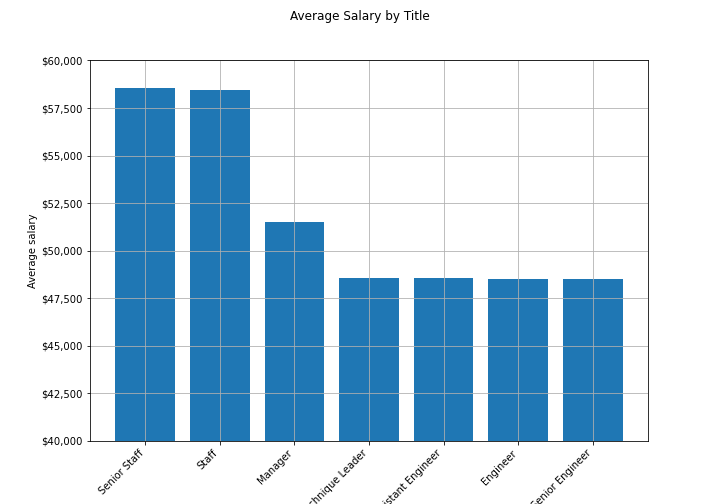
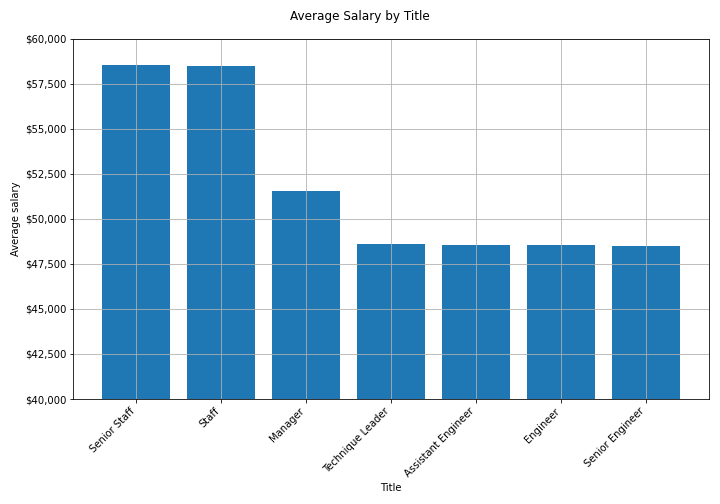
update readme

diff --git a/README.md b/README.md
@@ -1,49 +1,15 @@
 
 # SQL Challenge
 
-Run ['schema.sql'](EmployeeSQL/schema.sql)
-This repository contains 6 CSV files that can be imported into a database after running 
-It is a beautiful spring day, and it is two weeks since you have been hired as a new data engineer at Pewlett Hackard. Your first major task is a research project on employees of the corporation from the 1980s and 1990s. All that remain of the database of employees from that period are six CSV files.
 
-In this assignment, you will design the tables to hold data in the CSVs, import the CSVs into a SQL database, and answer questions about the data. In other words, you will perform:
+## Schema
+[schema.sql](EmployeeSQL/schema.sql) creates tables to hold data about a company's employees from the 6 csv files in [EmployeeSQL/data/](EmployeeSQL/data).
 
-1. Data Engineering
+![Pewlett-Hackard ERD](EmployeeSQL/images/erd.png)
 
-3. Data Analysis
+## Queries
 
-Note: You may hear the term "Data Modeling" in place of "Data Engineering," but they are the same terms. Data Engineering is the more modern wording instead of Data Modeling.
-
-### Before You Begin
-
-1. Create a new repository for this project called `sql-challenge`. **Do not add this homework to an existing repository**.
-
-2. Clone the new repository to your computer.
-
-3. Inside your local git repository, create a directory for the SQL challenge. Use a folder name to correspond to the challenge: **EmployeeSQL**.
-
-4. Add your files to this folder.
-
-5. Push the above changes to GitHub.
-
-## Instructions
-
-#### Data Modeling
-
-Inspect the CSVs and sketch out an ERD of the tables. Feel free to use a tool like [http://www.quickdatabasediagrams.com](http://www.quickdatabasediagrams.com).
-
-#### Data Engineering
-
-* Use the information you have to create a table schema for each of the six CSV files. Remember to specify data types, primary keys, foreign keys, and other constraints.
-
-  * For the primary keys check to see if the column is unique, otherwise create a [composite key](https://en.wikipedia.org/wiki/Compound_key). Which takes to primary keys in order to uniquely identify a row.
-  * Be sure to create tables in the correct order to handle foreign keys.
-
-* Import each CSV file into the corresponding SQL table. **Note** be sure to import the data in the same order that the tables were created and account for the headers when importing to avoid errors.
-
-#### Data Analysis
-
-Once you have a complete database, do the following:
-
+[queries.sql](EmployeeSQL/queries.sql) contains PostgreSQL queries for the following questions:
 1. List the following details of each employee: employee number, last name, first name, sex, and salary.
 
 2. List first name, last name, and hire date for employees who were hired in 1986.
@@ -58,46 +24,18 @@ Once you have a complete database, do the following:
 
 7. List all employees in the Sales and Development departments, including their employee number, last name, first name, and department name.
 
-8. In descending order, list the frequency count of employee last names, i.e., how many employees share each last name.
+8. In descending order, list the frequency count of employee last names, i.e., how many employees share each last name.new PostGres
 
-## Bonus (Optional)
+## Visualizations
 
-As you examine the data, you are overcome with a creeping suspicion that the dataset is fake. You surmise that your boss handed you spurious data in order to test the data engineering skills of a new employee. To confirm your hunch, you decide to take the following steps to generate a visualization of the data, with which you will confront your boss:
+[pewlett-hackard.ipynb](EmployeeSQL/pewlett-hackard.ipynb) contains a script to connect to the Postgres database and import SQL query output into dataframes to create the following visualizations:
 
-1. Import the SQL database into Pandas. (Yes, you could read the CSVs directly in Pandas, but you are, after all, trying to prove your technical mettle.) This step may require some research. Feel free to use the code below to get started. Be sure to make any necessary modifications for your username, password, host, port, and database name:
 
-   ```sql
-   from sqlalchemy import create_engine
-   engine = create_engine('postgresql://localhost:5432/<your_db_name>')
-   connection = engine.connect()
-   ```
 
-* Consult [SQLAlchemy documentation](https://docs.sqlalchemy.org/en/latest/core/engines.html#postgresql) for more information.
+**A histogram to visualize the most common salary ranges for employees:**
 
-* If using a password, do not upload your password to your GitHub repository. See [https://www.youtube.com/watch?v=2uaTPmNvH0I](https://www.youtube.com/watch?v=2uaTPmNvH0I) and [https://help.github.com/en/github/using-git/ignoring-files](https://help.github.com/en/github/using-git/ignoring-files) for more information.
+!['histogram of salary ranges'](EmployeeSQL/images/salaries_hist.png)
 
-2. Create a histogram to visualize the most common salary ranges for employees.
+**A bar chart of average salary by title:**
 
-3. Create a bar chart of average salary by title.
-
-## Epilogue
-
-Evidence in hand, you march into your boss's office and present the visualization. With a sly grin, your boss thanks you for your work. On your way out of the office, you hear the words, "Search your ID number." You look down at your badge to see that your employee ID number is 499942.
-
-## Submission
-
-* Create an image file of your ERD.
-
-* Create a `.sql` file of your table schemata.
-
-* Create a `.sql` file of your queries.
-
-* (Optional) Create a Jupyter Notebook of the bonus analysis.
-
-* Create and upload a repository with the above files to GitHub and post a link on BootCamp Spot.
-
-* Ensure your repository has regular commits (i.e. 20+ commits) and a thorough README.md file
-
-### Copyright
-
-Trilogy Education Services © 2019. All Rights Reserved.
+!['average salary by title'](EmployeeSQL/images/average_salaries.png)
